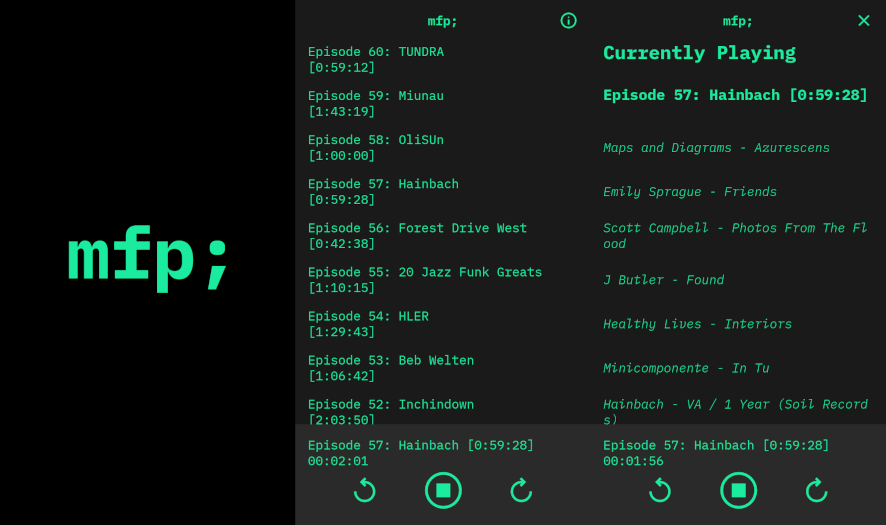
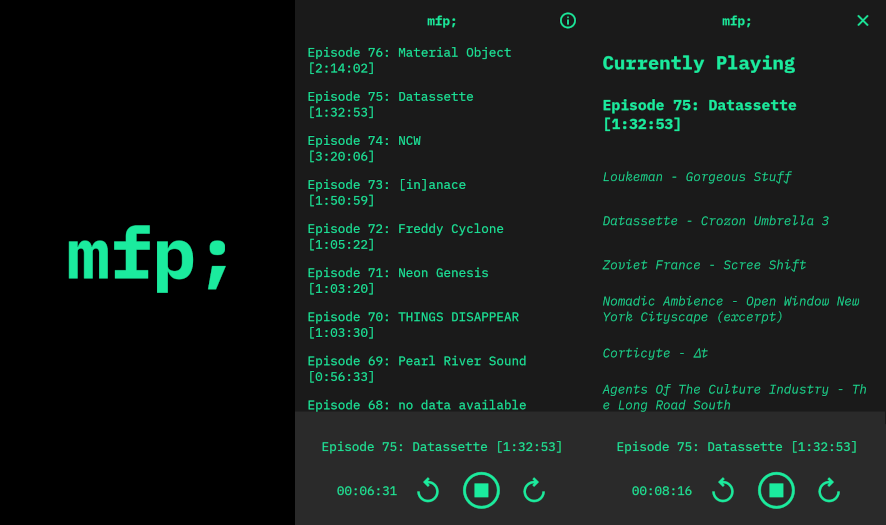
version 1.0.4
Adjust layout of mini-player controls and improved responsive design.

Updated screenshot.

diff --git a/src/style.css b/src/style.css
@@ -163,12 +163,17 @@
 
     #mini-player {
       background-color: var(--c-black-mini-player);
-      display: flex;
-      flex-direction: column;
-      justify-content: space-evenly;
+      display: grid;
+      grid-template-columns: repeat(1, 1fr);
       padding: var(--padding-16);
       margin: 0;
       box-sizing: border-box;
+    }
+
+    @media screen and (min-width: 768px) {
+      #mini-player {
+        grid-template-columns: repeat(2, 1fr);
+      }
     }
 
     #mini-player p {
@@ -178,11 +183,27 @@
       margin: 0;
     }
 
+    #mini-player-info {
+      min-height: 56px;
+      display: flex;
+      align-items: center;
+      justify-content: center;
+    }
+
+    #mini-player-info p {
+      white-space: unset;
+      text-align: center;
+      justify-content: center;
+    }
+
     #mini-player-controls {
       display: flex;
       flex-direction: row;
       justify-content: space-evenly;
       align-items: center;
+      min-height: 56px;
+      padding-left: 16px;
+      padding-right: 16px;
     }
 
     @media (max-height: 500px) {

diff --git a/index.html b/index.html
@@ -768,9 +768,9 @@
       <div id="mini-player">
         <div id="mini-player-info">
           <p id="mini-player-title" class="plex-mono-semibold">---------</p>
-          <p id="mini-player-duration">00:00:00</p>
         </div>
         <div id="mini-player-controls">
+          <p id="mini-player-duration">00:00:00</p>
           <img id="button-seek-back" class="player-controls-disabled" src="seek_back.svg" alt="Seek back 30s">
           <img id="button-play" class="player-controls-disabled" src="play.svg" alt="Play">
           <img id="button-stop" class="hidden" src="stop.svg" alt="Stop">

diff --git a/templates/index.html b/templates/index.html
@@ -168,9 +168,9 @@
       <div id="mini-player">
         <div id="mini-player-info">
           <p id="mini-player-title" class="plex-mono-semibold">---------</p>
-          <p id="mini-player-duration">00:00:00</p>
         </div>
         <div id="mini-player-controls">
+          <p id="mini-player-duration">00:00:00</p>
           <img id="button-seek-back" class="player-controls-disabled" src="seek_back.svg" alt="Seek back 30s">
           <img id="button-play" class="player-controls-disabled" src="play.svg" alt="Play">
           <img id="button-stop" class="hidden" src="stop.svg" alt="Stop">
